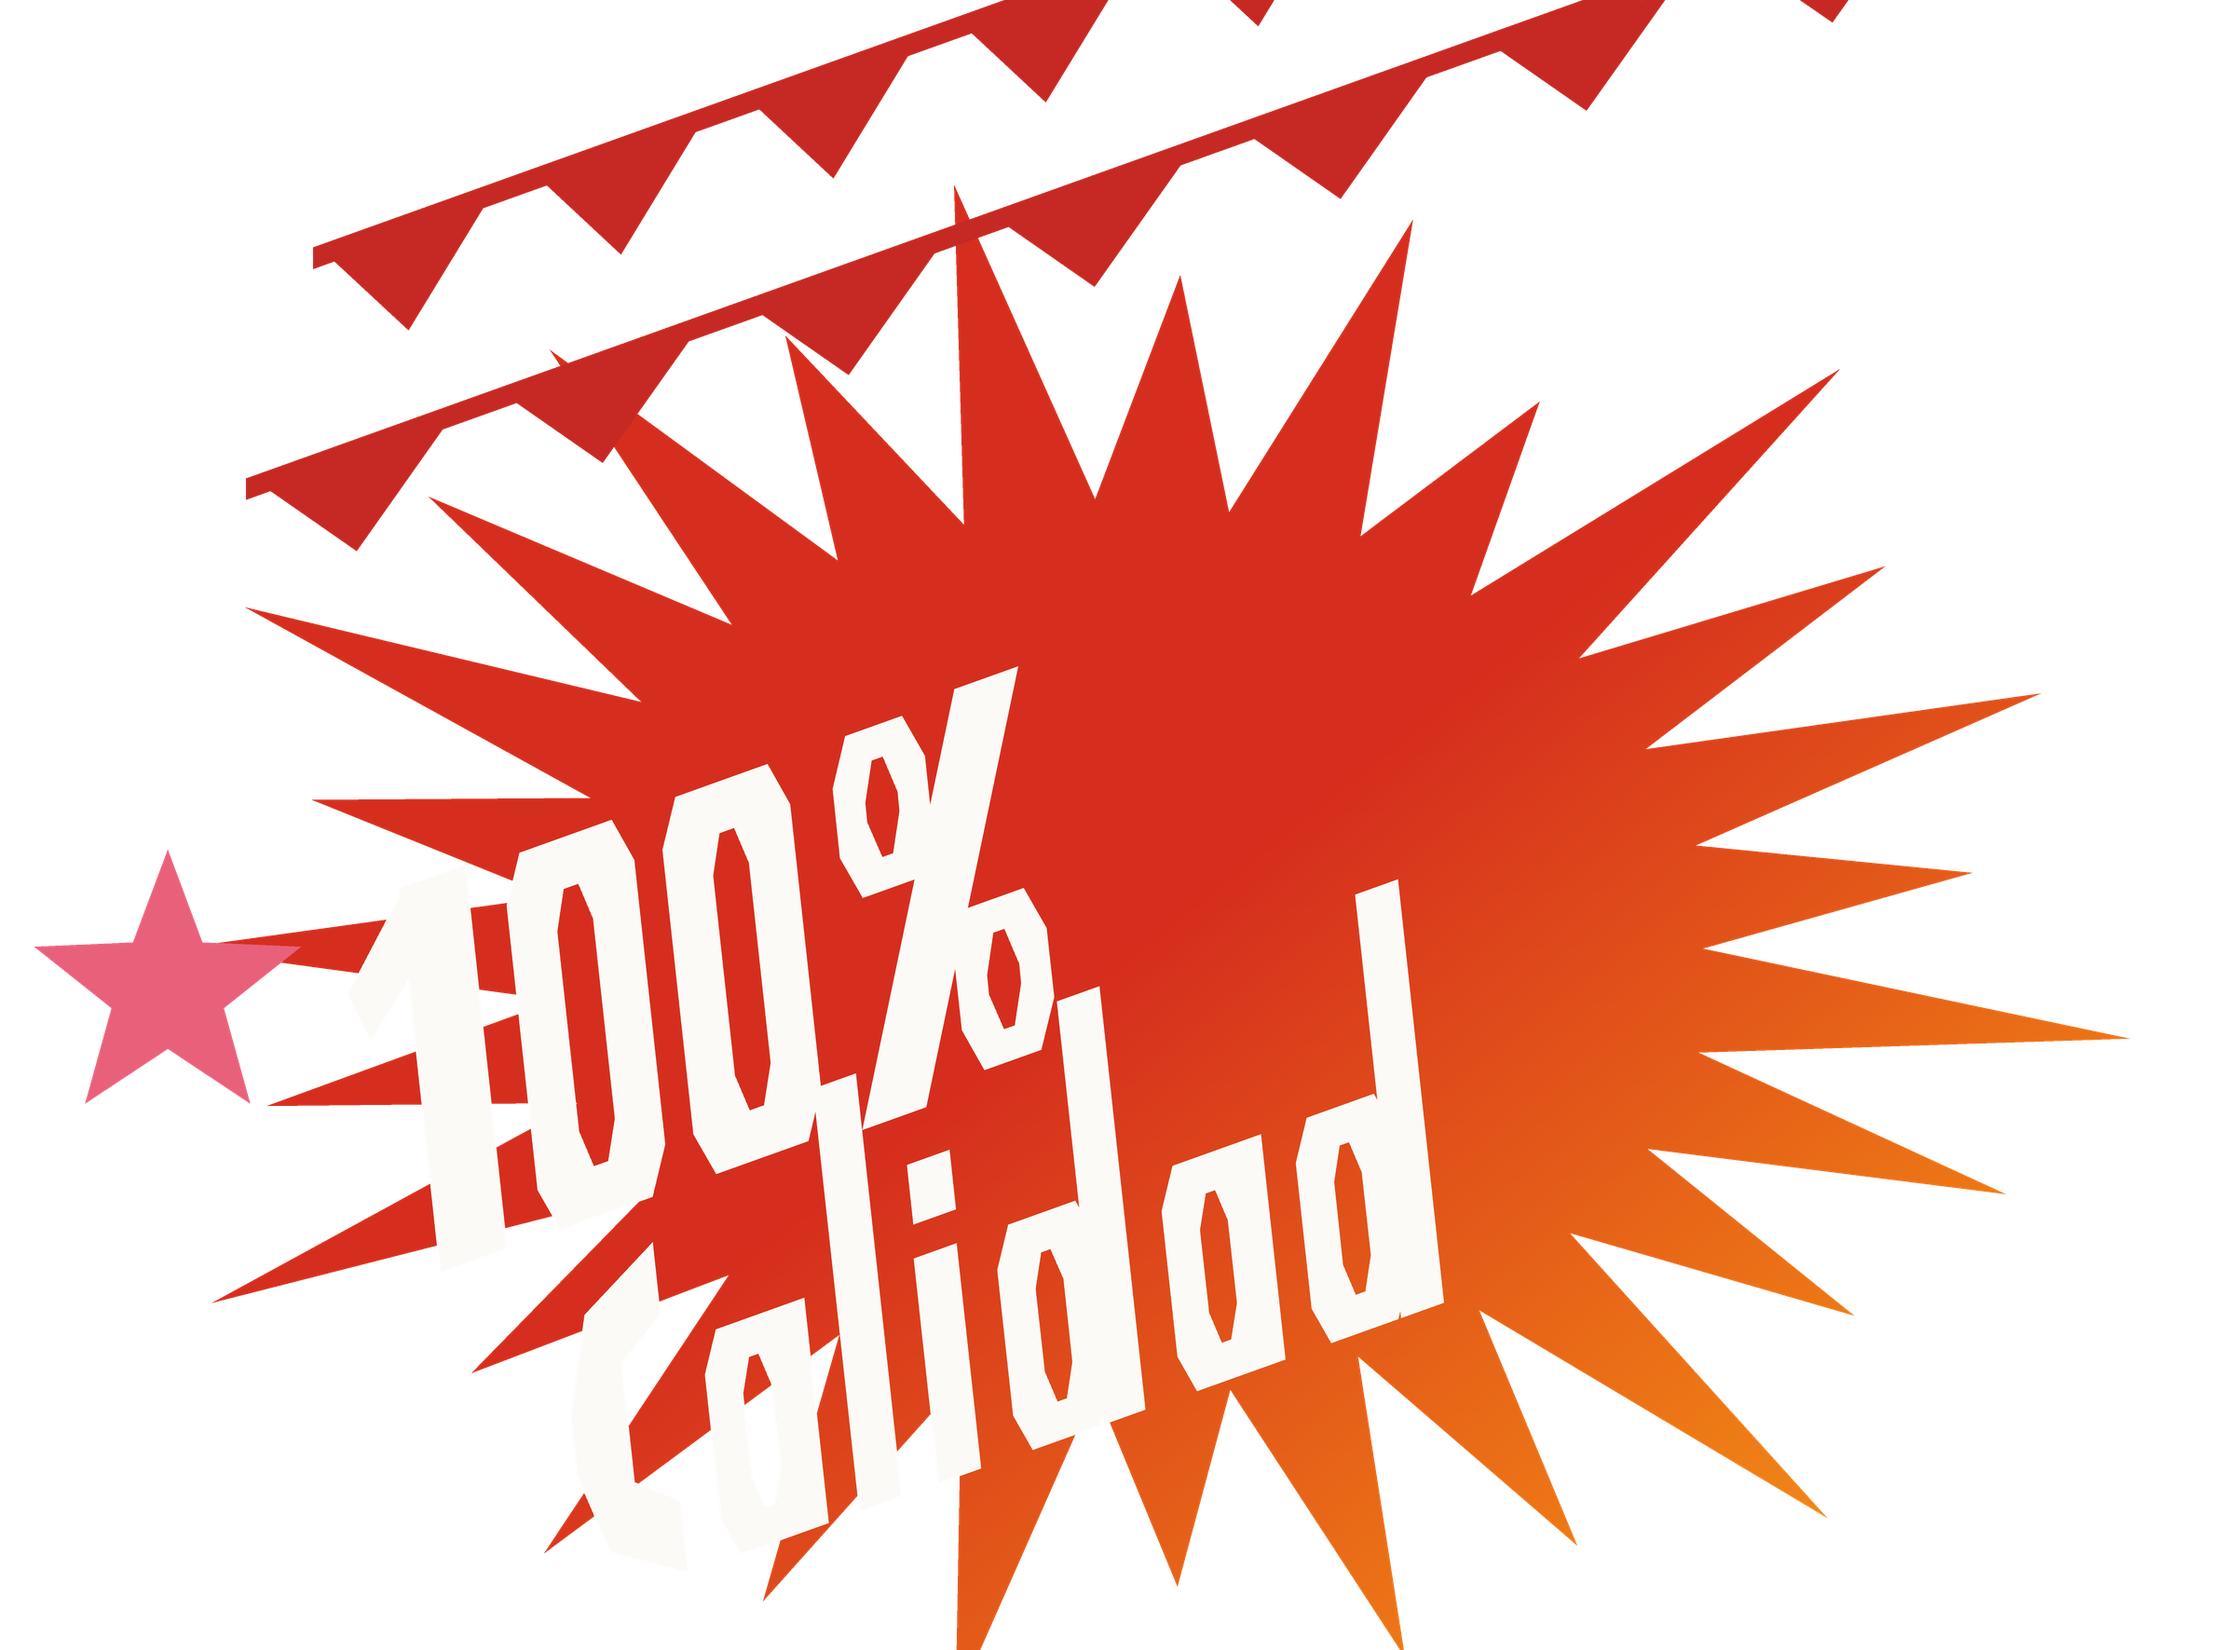
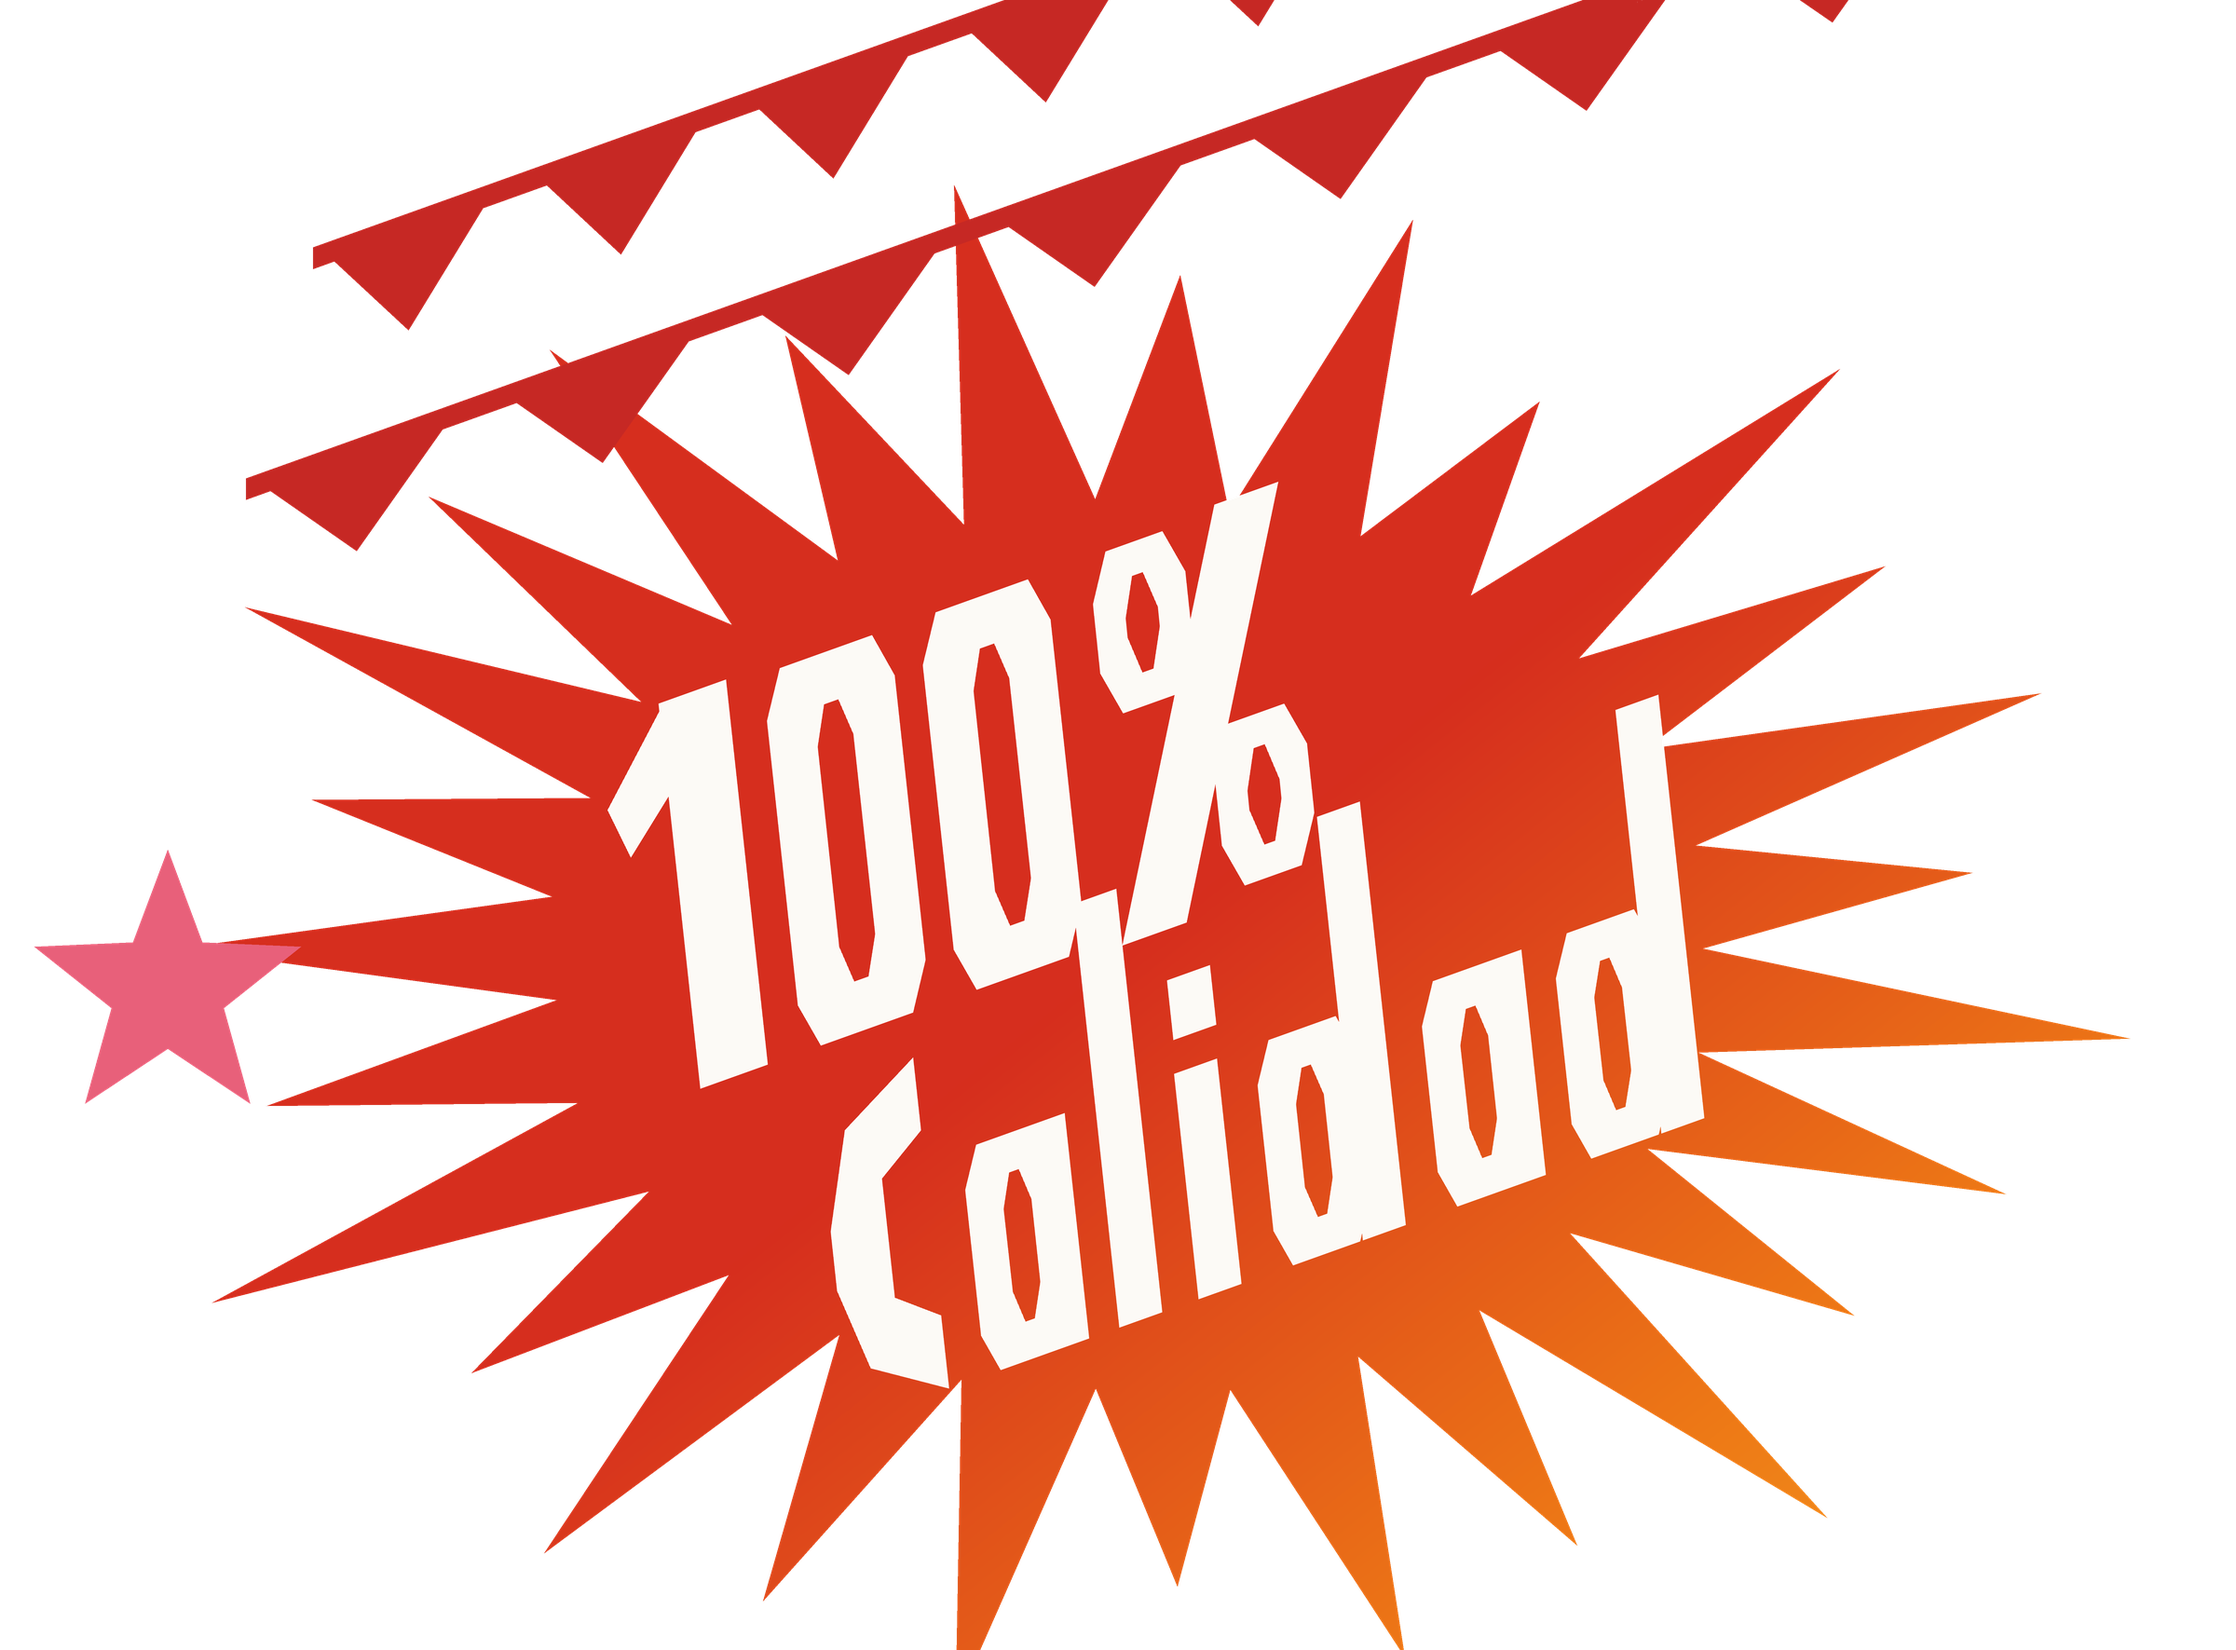
rev 46 W1: "100% calidad off center" -- the type, not the panel
The owner reported it for the third time and he is right.  It is NOT the defect
rev 44 closed: that one was the decal PANEL'S PLACEMENT ON THE VEHICLE (Report
7, 0.180 of texture width).  This is the TYPE'S PLACEMENT INSIDE THE DECAL,
which nobody had ever measured in forty-five revisions.

MEASURED, on the generator's own output, pre-rotation: the type block's centroid
sat at (0.3735, 0.6309) of the canvas against starburst()'s centre (0.5050,
0.5750) -- 0.1315 w LEFT and 0.0559 h BELOW.  In the shipped raster the miss was
(-0.1167, +0.1117): "100%" hung off the burst onto bare cream and "Calidad" ran
off the panel's bottom edge (type bbox reached y 0.953).  The photograph has the
type centred on the burst.

FIX, two parts, both structural rather than tuned:
  * starburst()'s centre is promoted to BURST_CX/BURST_CY and the type block is
    anchored to it.  TYPE_SHIFT is EXPRESSED as (burst centre - measured
    pre-rotation centroid), not frozen as its arithmetic result, so it
    re-derives after any glyph change (SPEC 10.25).
  * the block now rotates about the BURST'S centre instead of (0.500, 0.600).
    Those differ, so the -19.7 deg rotation was swinging a block off centre
    again even when the layout was right.  A rotation fixes its own centre, so
    the centring is now exact and independent of ANG.

Type centroid now (0.5051, 0.5749) against the burst's (0.5050, 0.5750): off by
(+0.0001, -0.0001).  bbox x 0.272-0.762, y 0.292-0.841 -- inside the burst on
[…]

Changed region(s): [[0.1562, 0.2795, 0.7812, 0.9317], [0.25, 0.8696, 0.2812, 0.9317]]

diff --git a/cal_gen.py b/cal_gen.py
@@ -61,6 +61,37 @@ BUNT = (198, 40, 36)
 
 ANG = math.radians(-19.7)        # measured type / bunting angle
 
+# ------------------------------------------------------- rev 46, W1, SPEC 10.118
+# THE BURST'S CENTRE, PROMOTED TO A CONSTANT, AND THE TYPE EXPRESSED AGAINST IT.
+#
+# The owner reported "the 100% calidad off center" and he is right.  It is NOT
+# the defect rev 44 closed: that one was the decal PANEL'S PLACEMENT ON THE
+# VEHICLE (Report 7, 0.180 of texture width).  This is the TYPE'S PLACEMENT
+# INSIDE THE DECAL, which nobody had ever measured.  Both are true and they are
+# different things.
+#
+# Measured on this generator's own output, before the block is rotated: the
+# type's centroid sat at (0.3735, 0.6309) of the canvas while starburst()'s
+# centre is (0.5050, 0.5750).  The block was 0.1315 w LEFT and 0.0559 h BELOW
+# the burst it is supposed to sit on -- and it showed, with "100%" hanging off
+# the burst onto bare cream and "Calidad" running off the panel's bottom edge.
+#
+# TYPE_SHIFT is EXACTLY that measured miss (SPEC 10.25: a constant tuned against
+# another constant is expressed in terms of it).  It is not a re-tuned pair of
+# absolutes -- re-run the pre-rotation centroid measurement after any glyph
+# change and it re-derives.  The two lines keep their relative offset; only the
+# block moves, which is what "off center" means.
+#
+# AND THE ROTATION CENTRE MOVES TO THE BURST'S CENTRE.  It was (0.500, 0.600) --
+# near the burst's centre but not equal to it, so the -19.7 deg rotation swung
+# the block off centre again by a further (+0.0148, +0.0558) even when the
+# layout was right.  Rotating about the point the block is centred ON makes the
+# centring EXACT and independent of ANG: a rotation fixes its own centre.
+BURST_CX, BURST_CY = 0.505, 0.575
+TYPE_PRE_CENTROID = (0.3735, 0.6309)     # watched print, rev 46, pre-rotation
+TYPE_SHIFT = (BURST_CX - TYPE_PRE_CENTROID[0],
+              BURST_CY - TYPE_PRE_CENTROID[1])      # (+0.1315, -0.0559)
+
 
 def rot(px, py, cx, cy, a):
     s, c = math.sin(a), math.cos(a)
@@ -76,7 +107,7 @@ def starburst(d):
     burst, so the tips wander. The sequence is fixed, not random, so the file
     is reproducible.
     """
-    cx, cy = w * 0.505, h * 0.575
+    cx, cy = w * BURST_CX, h * BURST_CY
     RO, RI = h * 0.435, h * 0.255
     N = 27
     jitter = [0.94, 1.06, 0.88, 1.11, 0.97, 1.04, 0.91, 1.08, 1.00, 0.93,
@@ -270,14 +301,39 @@ def main():
     # type on its own mask so the counters punch through, then rotated as one
     # block so the two lines stay parallel at the measured -19.7 degrees
     t = TypeMask(w, h)
-    glyph_100(t, w * 0.150, h * 0.395, h * 0.228)
-    glyph_calidad(t, w * 0.180, h * 0.645, h * 0.196)
+    sx, sy = TYPE_SHIFT
+    glyph_100(t, w * (0.150 + sx), h * (0.395 + sy), h * 0.228)
+    glyph_calidad(t, w * (0.180 + sx), h * (0.645 + sy), h * 0.196)
     lay = Image.merge("RGBA", (
         Image.new("L", (w, h), WHITE[0]), Image.new("L", (w, h), WHITE[1]),
         Image.new("L", (w, h), WHITE[2]), t.m))
     lay = lay.rotate(-math.degrees(ANG), resample=Image.BICUBIC,
-                     center=(w * 0.5, h * 0.60))
+                     center=(w * BURST_CX, h * BURST_CY))
     img = Image.alpha_composite(img, lay)
+
+    # ------------------------------------------------- rev 46, W1: THE GUARD
+    # Added in the SAME EDIT as the change it guards (SPEC 10.117 / rule 12).
+    # A claim in prose is not a guard: this one MEASURES the shipped raster and
+    # refuses to write a decal whose type has drifted off the burst.  It is the
+    # check that did not exist for forty-five revisions, which is why "100%
+    # calidad off center" survived every one of them.
+    _ck = np.array(img).astype(float)
+    _al = _ck[:, :, 3] / 255.0
+    _wm = (_al > 0.5) & (_ck[:, :, 0] > 200) & (_ck[:, :, 1] > 195) & (_ck[:, :, 2] > 190)
+    _ys, _xs = np.nonzero(_wm)
+    _tc = (_xs.mean() / _ck.shape[1], _ys.mean() / _ck.shape[0])
+    _off = (_tc[0] - BURST_CX, _tc[1] - BURST_CY)
+    print("  guard: type centroid (%.4f, %.4f) vs burst centre (%.4f, %.4f) "
+          "-> off (%+.4f, %+.4f)" % (_tc + (BURST_CX, BURST_CY) + _off))
+    # 0.004 is ~10 px on the 2400-wide master: below the LANCZOS/BICUBIC
+    # resampling floor, far under the 0.1167 miss this replaced.
+    if abs(_off[0]) > 0.004 or abs(_off[1]) > 0.004:
+        raise SystemExit(
+            "cal_gen GUARD FAILED: the type is off the burst's centre by "
+            "(%+.4f, %+.4f) of the decal, tolerance 0.004.  This is the defect "
+            "the owner reported as \"100%% calidad off center\".  Re-derive "
+            "TYPE_SHIFT from the pre-rotation centroid; do not widen the "
+            "tolerance." % _off)
 
     img = img.resize((W, H), Image.LANCZOS)
     os.makedirs(TEX, exist_ok=True)
